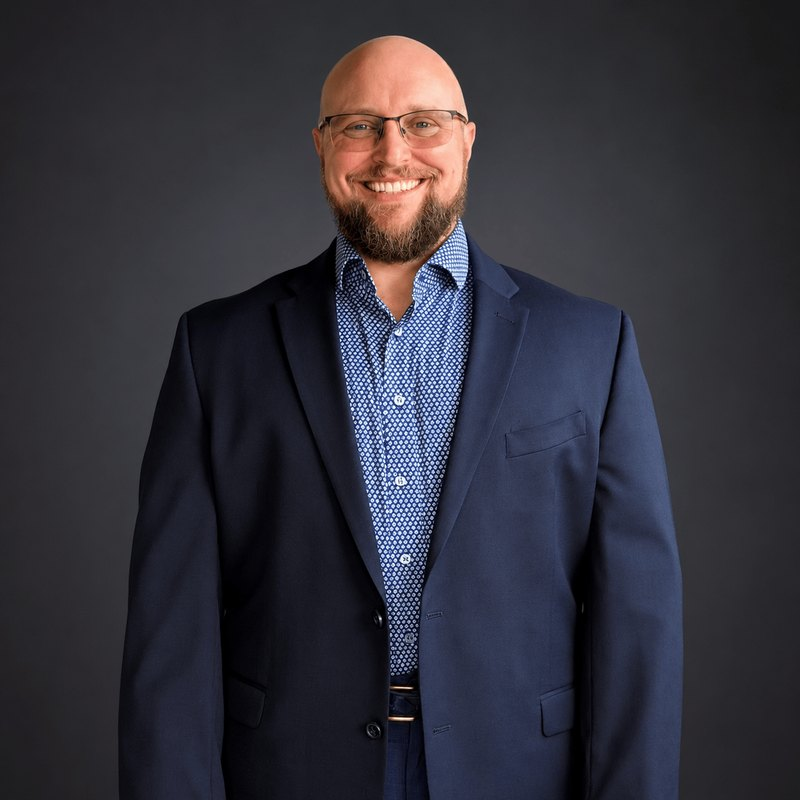
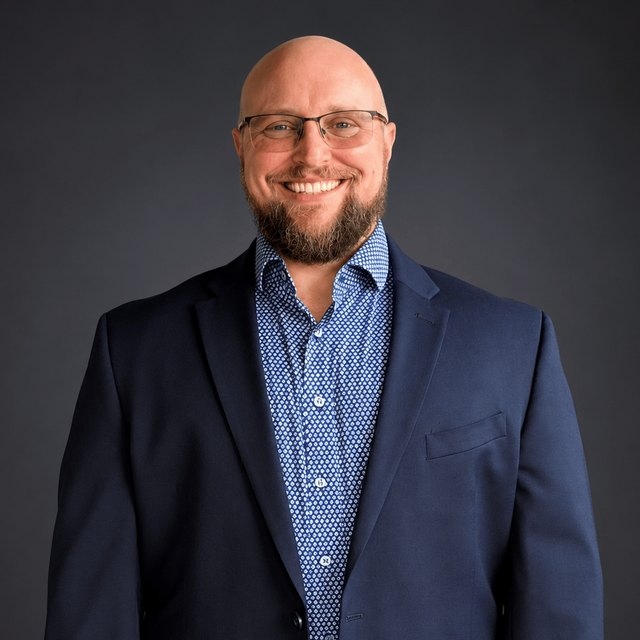
Fix stretched hero photo (height:auto), crop headshot at waist, shrink to 210px

diff --git a/src/pages/About.css b/src/pages/About.css
@@ -59,7 +59,7 @@
 .hero-photo-wrap::after {
   content: '';
   position: absolute;
-  inset: 11px -11px -11px 11px;
+  inset: 10px -10px -10px 10px;
   border: 2px solid var(--forest);
   border-radius: var(--radius);
   z-index: 0;
@@ -67,7 +67,9 @@
 .hero-photo {
   position: relative;
   z-index: 1;
-  width: min(260px, 100%);
+  width: min(210px, 100%);
+  aspect-ratio: 1 / 1;
+  object-fit: cover;
   border-radius: var(--radius);
   box-shadow: var(--shadow);
 }

diff --git a/src/pages/About.jsx b/src/pages/About.jsx
@@ -32,8 +32,8 @@ export default function About() {
               src={headshot}
               alt={`${profile.fullName} headshot`}
               className="hero-photo"
-              width="800"
-              height="800"
+              width="640"
+              height="640"
             />
           </div>
         </div>

diff --git a/src/index.css b/src/index.css
@@ -43,7 +43,7 @@ h1, h2, h3, h4 {
 a { color: var(--forest); text-decoration: none; }
 a:hover { text-decoration: underline; }
 
-img { max-width: 100%; display: block; }
+img { max-width: 100%; height: auto; display: block; }
 
 button { font-family: inherit; cursor: pointer; }
 
